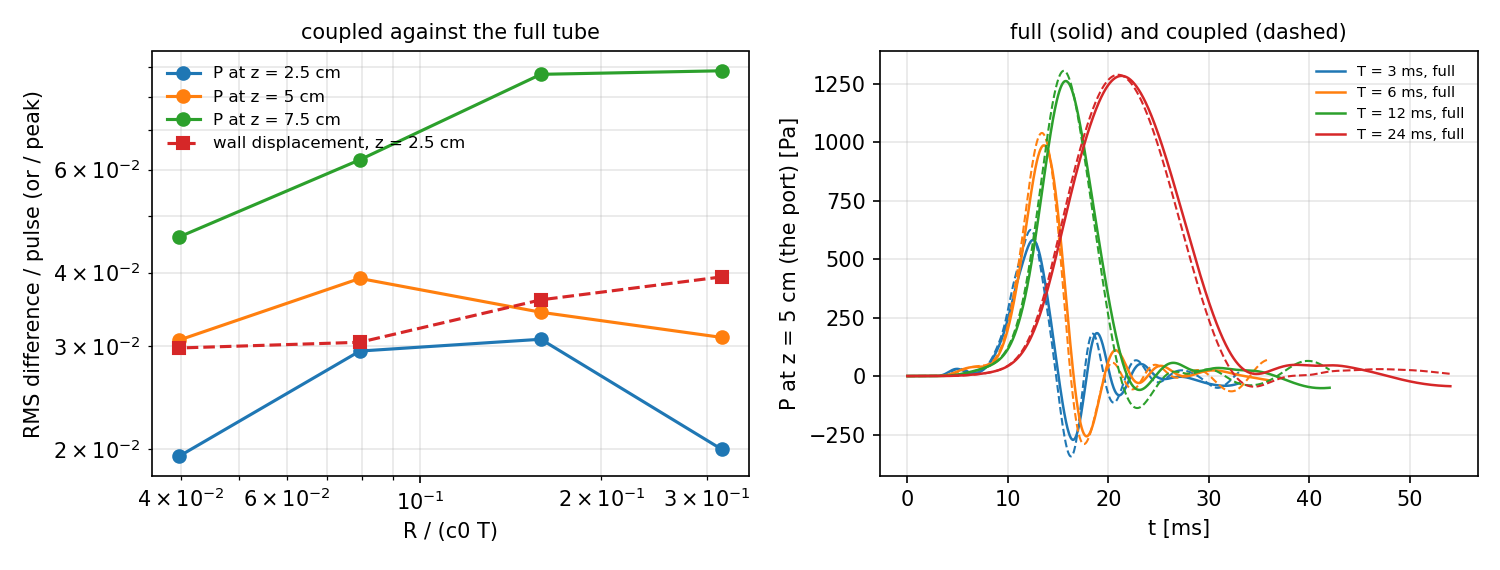
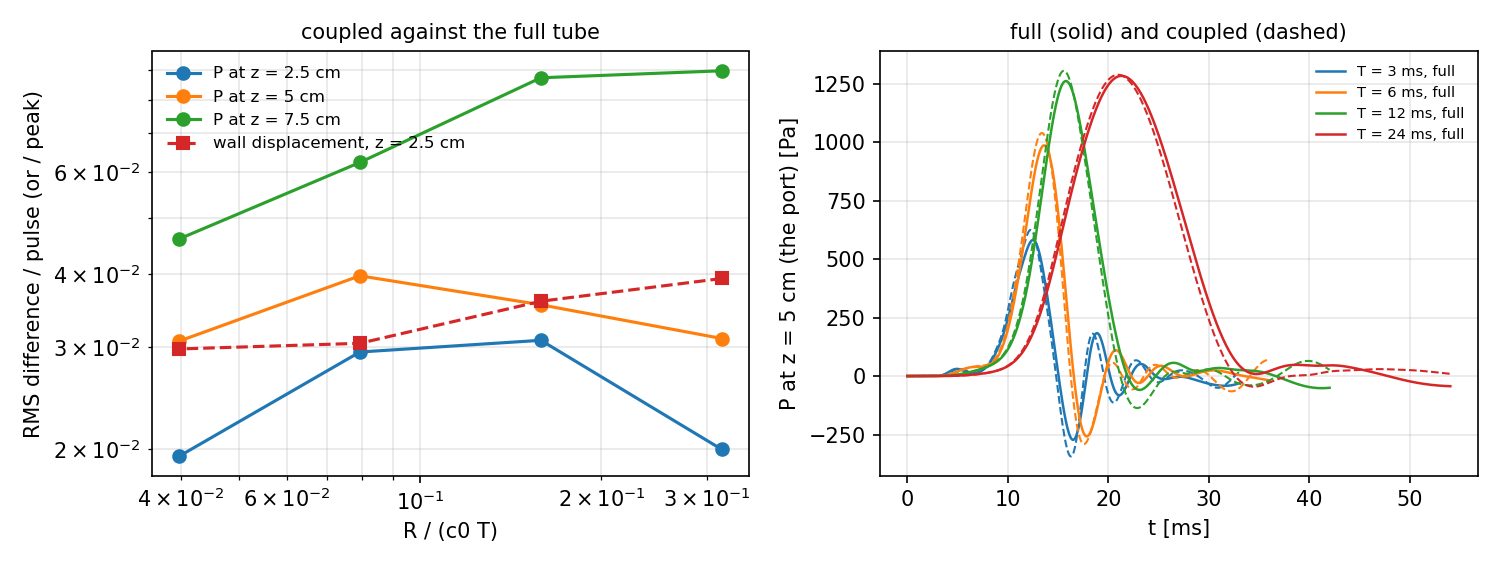
formaggia2007: sections measured with the sectionFields function object
Two errors in the section measurements of the FSI tube: the flow summed
phi, which the solver leaves relative to the mesh, on zones that move
axially with the wall (10-20 % off), and on processor faces the pressure
read the neighbour cell (half a cell away, 3.5 % of the pulse on B4).
makeCases.py writes a coded function object, sectionFields, that
registers phiAbsolute = phi + meshPhi and pSection, the mean of the two
cells on every face; the zones sum phiAbsolute and average pSection.

Full tubes rerun on xenosim with it: pulse.md and pulse_planeStress.md
regenerated (no conclusion changes; largest RMS change 3.5e-2 to 3.8e-2),
and refine.md, the refinement study complete with the clamped end on the
finer mesh. The README's 3.75 cm row (the section on a processor boundary)
updated from full3D_lib2; analyse.py writes its report from the study's
own runs only.

diff --git a/tutorials/circulationModels/coupling3D1D/formaggia2007/makeCases.py b/tutorials/circulationModels/coupling3D1D/formaggia2007/makeCases.py
@@ -25,7 +25,10 @@ c0^2/(2 h) (the law's 4/3 factor is the nu = 1/2 of Formaggia's 1D model).
 
 The 3D cases are quarter tubes (two symmetry planes): the coupled port has
 flowScale 4. Sections of the fluid at z = 1.25, 2.5, ... cm are faceZones
-(topoSet) on which surfaceFieldValue writes the mean pressure and the flow.
+(topoSet) on which surfaceFieldValue writes the mean pressure and the flow,
+the flow through the moving faces (phi + meshPhi) and the pressure as the
+mean of the two cells on every face, processor faces included (see
+SECTION_FIELDS).
 """
 import argparse
 import math
@@ -87,12 +90,107 @@ def zone_name(zcm):
     return "z" + f"{zcm:g}".replace(".", "p")
 
 
+# The fields the sections are measured on, registered by this object ahead
+# of the others. The flow: the solver leaves phi relative to the moving
+# mesh, and the faceZones move axially with the wall (its axial waves run
+# ahead of the pulse), so their sum(phi) is not the flow past the section;
+# phiAbsolute = phi + meshPhi is (meshPhi itself is not registered). The
+# pressure: surfaceFieldValue takes the mean of the two cells on an interior
+# face, but on a processor face the stored value, which is the neighbour
+# cell's, so a section on a processor boundary would be read half a cell
+# away; pSection is the mean of the two cells on every face.
+SECTION_FIELDS = """    sectionFields
+    {
+        type            coded;
+        libs            (utilityFunctionObjects);
+        name            sectionFields;
+        region          fluid;
+        codeExecute
+        #{
+            const fvMesh& m = mesh();
+            const surfaceScalarField& phi =
+                m.lookupObject<surfaceScalarField>("phi");
+            surfaceScalarField* ptr =
+                m.getObjectPtr<surfaceScalarField>("phiAbsolute");
+            if (!ptr)
+            {
+                ptr = new surfaceScalarField
+                (
+                    IOobject
+                    (
+                        "phiAbsolute",
+                        m.time().timeName(),
+                        m,
+                        IOobject::NO_READ,
+                        IOobject::NO_WRITE,
+                        IOobject::REGISTER
+                    ),
+                    phi
+                );
+                ptr->store();
+            }
+            *ptr = phi;
+            if (m.moving())
+            {
+                *ptr += m.phi();
+            }
+
+            const volScalarField& p = m.lookupObject<volScalarField>("p");
+            surfaceScalarField* ps =
+                m.getObjectPtr<surfaceScalarField>("pSection");
+            if (!ps)
+            {
+                ps = new surfaceScalarField
+                (
+                    IOobject
+                    (
+                        "pSection",
+                        m.time().timeName(),
+                        m,
+                        IOobject::NO_READ,
+                        IOobject::NO_WRITE,
+                        IOobject::REGISTER
+                    ),
+                    m,
+                    dimensionedScalar(p.dimensions(), Zero)
+                );
+                ps->store();
+            }
+            const labelUList& own = m.owner();
+            const labelUList& nei = m.neighbour();
+            scalarField& psi = ps->primitiveFieldRef();
+            forAll(nei, facei)
+            {
+                psi[facei] = 0.5*(p[own[facei]] + p[nei[facei]]);
+            }
+            auto& psb = ps->boundaryFieldRef();
+            forAll(psb, patchi)
+            {
+                const fvPatchScalarField& pp = p.boundaryField()[patchi];
+                if (pp.coupled())
+                {
+                    const scalarField mean
+                    (
+                        0.5*(pp.patchInternalField() + pp.patchNeighbourField())
+                    );
+                    psb[patchi] = mean;
+                }
+                else
+                {
+                    psb[patchi] = pp;
+                }
+            }
+        #};
+    }
+"""
+
+
 def control_dict(coupled, planes, dt, end=END_TIME):
     libs ='libs            ("libcirculation1DCoupling.so");\n\n' if coupled else ""
-    fos = ""
+    fos = SECTION_FIELDS
     for zcm in planes:
         n = zone_name(zcm)
-        for suffix, op, field in (("P", "areaAverage", "p"), ("Q", "sum", "phi")):
+        for suffix, op, field in (("P", "areaAverage", "pSection"), ("Q", "sum", "phiAbsolute")):
             fos += f"""    {n}_{suffix}
     {{
         type            surfaceFieldValue;

diff --git a/tutorials/circulationModels/coupling3D1D/formaggia2007/analyse.py b/tutorials/circulationModels/coupling3D1D/formaggia2007/analyse.py
@@ -6,7 +6,11 @@
 
 At each section z the mean pressure and the flow are taken from the faceZone
 function objects of the 3D runs (quarter tube: the flow is multiplied by 4,
-the kinematic pressure by rho), from the coupler's log of the coupled runs
+the kinematic pressure by rho; the flow is phi + meshPhi, the flux through
+the moving faces, since the solver leaves phi relative to the mesh and the
+sections move axially with the wall; the pressure is pSection, the mean of
+the two cells of every face, processor faces included, where p itself holds
+the neighbour cell's value), from the coupler's log of the coupled runs
 at the interface z = 5 cm (the port) and beyond it (the vessel probes), and
 from the probes of the 1D vessel alone. Every runs/coupled* directory is a
 coupled run (makeCases.py --c0 names them by their wave speed). The error of
@@ -161,12 +165,19 @@ def ref_for(c):
     return "full3D"
 
 
+def own_runs(pattern):
+    """The runs of this comparison: the pulse sweep's (_T) and the refinement
+    study's (_x) have their own reports, pulse.md and refine.md"""
+    return sorted(p.name for p in RUNS.glob(pattern)
+                  if p.is_dir() and "_T" not in p.name and "_x" not in p.name)
+
+
 def main():
-    coupled = sorted(p.name for p in RUNS.glob("coupled*") if p.is_dir())
+    coupled = own_runs("coupled*")
     lines = ["# Formaggia et al. (2007), section 5: the pulse tube continued "
              "by a 1D vessel", ""]
     data = {}
-    for ref in sorted(p.name for p in RUNS.glob("full3D*") if p.is_dir()):
+    for ref in own_runs("full3D*"):
         if (RUNS/ref/"postProcessing"/"fluid").is_dir():
             if not finished(ref, "log.solids4Foam"):
                 lines += [f"**{ref} has not finished: partial data.**", ""]

diff --git a/tutorials/circulationModels/coupling3D1D/formaggia2007/pulse.md b/tutorials/circulationModels/coupling3D1D/formaggia2007/pulse.md
@@ -4,16 +4,16 @@ sin^2 pulses of 1333 Pa and duration T on the full FSI tube (length L) and on th
 
 | T [ms] | L [cm] | c0 T [mm] | R/(c0 T) | z = 1.25 | z = 2.5 | z = 3.75 | z = 5 | z = 6.25 | z = 7.5 | z = 10 | z = 12.5 | max, 3D part | D peak full / coupled [um] | RMS dD / peak |
 |---|---|---|---|---|---|---|---|---|---|---|---|---|---|---|
-| 3 | 15 | 15.8 | 0.317 | 2.45e-02 | 2.00e-02 | 2.52e-02 | 3.10e-02 | 7.11e-02 | 8.85e-02 | 1.10e-01 | 1.14e-01 | 3.10e-02 | 83.2 / 83.0 | 3.93e-02 |
-| 6 | 20 | 31.5 | 0.159 | 3.96e-02 | 3.08e-02 | 3.48e-02 | 3.42e-02 | 6.31e-02 | 8.73e-02 | 1.22e-01 | 1.40e-01 | 3.96e-02 | 123.8 / 123.6 | 3.59e-02 |
-| 12 | 20 | 63.0 | 0.079 | 3.56e-02 | 2.94e-02 | 3.97e-02 | 3.91e-02 | 4.93e-02 | 6.24e-02 | 8.34e-02 | 1.04e-01 | 3.97e-02 | 128.4 / 127.6 | 3.04e-02 |
-| 24 | 25 | 126.1 | 0.040 | 1.12e-02 | 1.94e-02 | 2.68e-02 | 3.07e-02 | 3.51e-02 | 4.60e-02 | 6.19e-02 | 6.91e-02 | 3.07e-02 | 126.4 / 122.4 | 2.97e-02 |
+| 3 | 15 | 15.8 | 0.317 | 2.45e-02 | 2.00e-02 | 2.29e-02 | 3.10e-02 | 7.11e-02 | 8.98e-02 | 1.10e-01 | 1.14e-01 | 3.10e-02 | 83.2 / 83.0 | 3.93e-02 |
+| 6 | 20 | 31.5 | 0.159 | 3.96e-02 | 3.08e-02 | 3.48e-02 | 3.54e-02 | 6.31e-02 | 8.73e-02 | 1.22e-01 | 1.40e-01 | 3.96e-02 | 123.8 / 123.6 | 3.59e-02 |
+| 12 | 20 | 63.0 | 0.079 | 3.56e-02 | 2.94e-02 | 3.97e-02 | 3.98e-02 | 4.93e-02 | 6.24e-02 | 8.34e-02 | 1.04e-01 | 3.98e-02 | 128.4 / 127.6 | 3.04e-02 |
+| 24 | 25 | 126.1 | 0.040 | 1.12e-02 | 1.94e-02 | 2.68e-02 | 3.07e-02 | 3.78e-02 | 4.60e-02 | 6.19e-02 | 6.91e-02 | 3.07e-02 | 126.4 / 122.4 | 2.97e-02 |
 
 Peak pressure, full / coupled [Pa]:
 
 | T [ms] | z = 1.25 | z = 2.5 | z = 3.75 | z = 5 | z = 6.25 | z = 7.5 | z = 10 | z = 12.5 |
 |---|---|---|---|---|---|---|---|---|
-| 3 | 845 / 845 | 695 / 705 | 612 / 637 | 581 / 625 | 541 / 619 | 512 / 617 | 439 / 613 | 443 / 610 |
+| 3 | 845 / 845 | 695 / 705 | 611 / 637 | 581 / 625 | 541 / 619 | 511 / 617 | 439 / 613 | 443 / 610 |
 | 6 | 1194 / 1195 | 1115 / 1145 | 1040 / 1070 | 986 / 1039 | 945 / 1034 | 905 / 1032 | 851 / 1028 | 774 / 1024 |
 | 12 | 1305 / 1322 | 1284 / 1317 | 1269 / 1304 | 1261 / 1305 | 1250 / 1300 | 1238 / 1298 | 1231 / 1294 | 1143 / 1290 |
 | 24 | 1323 / 1336 | 1311 / 1325 | 1297 / 1330 | 1283 / 1288 | 1269 / 1286 | 1256 / 1284 | 1252 / 1281 | 1252 / 1279 |
@@ -22,7 +22,7 @@ The difference split. c_3D: the full tube's wave speed from the half-peak arriva
 
 | T [ms] | c_3D [m/s] | z = 1.25 | z = 2.5 | z = 3.75 | z = 5 | z = 6.25 | z = 7.5 | z = 10 | z = 12.5 |
 |---|---|---|---|---|---|---|---|---|---|
-| 3 | 3.77 | 1.000; -0.00; 2.4e-02 | 1.015; -0.00; 2.0e-02 | 1.040; -0.13; 2.2e-02 | 1.074; +0.27; 1.8e-02 | 1.144; +0.75; 3.6e-02 | 1.205; +1.02; 5.3e-02 | 1.397; +1.67; 6.1e-02 | 1.377; +1.65; 3.8e-02 |
-| 6 | 4.80 | 1.001; -0.03; 3.9e-02 | 1.027; -0.00; 3.1e-02 | 1.029; -0.10; 3.3e-02 | 1.054; +0.22; 2.4e-02 | 1.095; +0.50; 3.3e-02 | 1.141; +0.77; 4.1e-02 | 1.208; +1.20; 5.9e-02 | 1.323; +1.55; 5.8e-02 |
-| 12 | 4.97 | 1.013; -0.05; 3.5e-02 | 1.026; +0.02; 2.9e-02 | 1.027; -0.05; 3.9e-02 | 1.035; +0.22; 3.4e-02 | 1.041; +0.42; 3.1e-02 | 1.049; +0.65; 2.6e-02 | 1.051; +0.90; 2.9e-02 | 1.129; +1.15; 4.4e-02 |
-| 24 | 5.17 | 1.009; +0.02; 1.1e-02 | 1.010; +0.07; 1.9e-02 | 1.025; +0.22; 2.3e-02 | 1.004; +0.35; 2.2e-02 | 1.013; +0.45; 2.4e-02 | 1.022; +0.67; 2.5e-02 | 1.024; +1.00; 2.3e-02 | 1.021; +1.17; 1.6e-02 |
+| 3 | 3.77 | 1.000; -0.00; 2.4e-02 | 1.015; -0.00; 2.0e-02 | 1.041; -0.05; 2.2e-02 | 1.074; +0.27; 1.8e-02 | 1.144; +0.75; 3.6e-02 | 1.206; +1.05; 5.3e-02 | 1.397; +1.67; 6.1e-02 | 1.377; +1.65; 3.8e-02 |
+| 6 | 4.79 | 1.001; -0.03; 3.9e-02 | 1.027; -0.00; 3.1e-02 | 1.029; -0.10; 3.3e-02 | 1.054; +0.22; 2.4e-02 | 1.095; +0.50; 3.3e-02 | 1.141; +0.77; 4.1e-02 | 1.208; +1.20; 5.9e-02 | 1.323; +1.55; 5.8e-02 |
+| 12 | 4.96 | 1.013; -0.05; 3.5e-02 | 1.026; +0.02; 2.9e-02 | 1.027; -0.05; 3.9e-02 | 1.035; +0.22; 3.4e-02 | 1.041; +0.42; 3.1e-02 | 1.049; +0.65; 2.6e-02 | 1.051; +0.90; 2.9e-02 | 1.129; +1.15; 4.4e-02 |
+| 24 | 5.17 | 1.009; +0.02; 1.1e-02 | 1.010; +0.07; 1.9e-02 | 1.025; +0.22; 2.3e-02 | 1.004; +0.35; 2.2e-02 | 1.013; +0.50; 2.4e-02 | 1.022; +0.67; 2.5e-02 | 1.024; +1.00; 2.3e-02 | 1.021; +1.17; 1.6e-02 |

diff --git a/tutorials/circulationModels/coupling3D1D/formaggia2007/pulse_planeStress.md b/tutorials/circulationModels/coupling3D1D/formaggia2007/pulse_planeStress.md
@@ -4,16 +4,16 @@ sin^2 pulses of 1333 Pa and duration T on the full FSI tube (length L) and on th
 
 | T [ms] | L [cm] | c0 T [mm] | R/(c0 T) | z = 1.25 | z = 2.5 | z = 3.75 | z = 5 | z = 6.25 | z = 7.5 | z = 10 | z = 12.5 | max, 3D part | D peak full / coupled [um] | RMS dD / peak |
 |---|---|---|---|---|---|---|---|---|---|---|---|---|---|---|
-| 3 | 15 | 15.2 | 0.329 | 2.47e-02 | 2.02e-02 | 2.56e-02 | 3.02e-02 | 6.44e-02 | 7.88e-02 | 9.53e-02 | 8.50e-02 | 3.02e-02 | 83.2 / 83.0 | 3.94e-02 |
-| 6 | 20 | 30.4 | 0.165 | 3.79e-02 | 2.97e-02 | 3.49e-02 | 3.25e-02 | 5.39e-02 | 7.16e-02 | 9.58e-02 | 1.03e-01 | 3.79e-02 | 123.8 / 123.6 | 3.54e-02 |
-| 12 | 20 | 60.8 | 0.082 | 3.34e-02 | 2.87e-02 | 4.02e-02 | 3.78e-02 | 4.25e-02 | 4.83e-02 | 5.70e-02 | 6.73e-02 | 4.02e-02 | 128.4 / 127.6 | 3.17e-02 |
-| 24 | 25 | 121.6 | 0.041 | 1.17e-02 | 2.07e-02 | 2.77e-02 | 3.02e-02 | 3.08e-02 | 3.72e-02 | 4.44e-02 | 4.17e-02 | 3.02e-02 | 126.4 / 122.2 | 3.41e-02 |
+| 3 | 15 | 15.2 | 0.329 | 2.47e-02 | 2.02e-02 | 2.34e-02 | 3.02e-02 | 6.44e-02 | 8.00e-02 | 9.53e-02 | 8.50e-02 | 3.02e-02 | 83.2 / 83.0 | 3.94e-02 |
+| 6 | 20 | 30.4 | 0.165 | 3.79e-02 | 2.97e-02 | 3.49e-02 | 3.38e-02 | 5.39e-02 | 7.16e-02 | 9.58e-02 | 1.03e-01 | 3.79e-02 | 123.8 / 123.6 | 3.54e-02 |
+| 12 | 20 | 60.8 | 0.082 | 3.34e-02 | 2.87e-02 | 4.02e-02 | 3.84e-02 | 4.25e-02 | 4.83e-02 | 5.70e-02 | 6.73e-02 | 4.02e-02 | 128.4 / 127.6 | 3.17e-02 |
+| 24 | 25 | 121.6 | 0.041 | 1.17e-02 | 2.07e-02 | 2.77e-02 | 3.02e-02 | 3.32e-02 | 3.72e-02 | 4.44e-02 | 4.17e-02 | 3.02e-02 | 126.4 / 122.2 | 3.41e-02 |
 
 Peak pressure, full / coupled [Pa]:
 
 | T [ms] | z = 1.25 | z = 2.5 | z = 3.75 | z = 5 | z = 6.25 | z = 7.5 | z = 10 | z = 12.5 |
 |---|---|---|---|---|---|---|---|---|
-| 3 | 845 / 845 | 695 / 705 | 612 / 636 | 581 / 613 | 541 / 607 | 512 / 605 | 439 / 601 | 443 / 597 |
+| 3 | 845 / 845 | 695 / 705 | 611 / 636 | 581 / 613 | 541 / 607 | 511 / 605 | 439 / 601 | 443 / 597 |
 | 6 | 1194 / 1195 | 1115 / 1144 | 1040 / 1068 | 986 / 1019 | 945 / 1014 | 905 / 1011 | 851 / 1007 | 774 / 1003 |
 | 12 | 1305 / 1322 | 1284 / 1317 | 1269 / 1299 | 1261 / 1279 | 1250 / 1275 | 1238 / 1272 | 1231 / 1268 | 1143 / 1264 |
 | 24 | 1323 / 1336 | 1311 / 1322 | 1297 / 1314 | 1283 / 1262 | 1269 / 1260 | 1256 / 1259 | 1252 / 1256 | 1252 / 1253 |
@@ -22,7 +22,7 @@ The difference split. c_3D: the full tube's wave speed from the half-peak arriva
 
 | T [ms] | c_3D [m/s] | z = 1.25 | z = 2.5 | z = 3.75 | z = 5 | z = 6.25 | z = 7.5 | z = 10 | z = 12.5 |
 |---|---|---|---|---|---|---|---|---|---|
-| 3 | 3.77 | 1.000; -0.00; 2.5e-02 | 1.015; -0.00; 2.0e-02 | 1.039; -0.13; 2.3e-02 | 1.054; +0.27; 1.7e-02 | 1.122; +0.65; 3.6e-02 | 1.182; +0.85; 5.2e-02 | 1.369; +1.32; 5.9e-02 | 1.349; +1.12; 3.6e-02 |
-| 6 | 4.80 | 1.001; -0.03; 3.8e-02 | 1.027; -0.00; 3.0e-02 | 1.027; -0.10; 3.3e-02 | 1.033; +0.22; 2.3e-02 | 1.073; +0.42; 3.1e-02 | 1.118; +0.60; 3.9e-02 | 1.184; +0.87; 5.7e-02 | 1.296; +1.02; 5.4e-02 |
-| 12 | 4.97 | 1.013; -0.05; 3.3e-02 | 1.026; +0.02; 2.9e-02 | 1.024; -0.03; 4.0e-02 | 1.014; +0.22; 3.2e-02 | 1.020; +0.35; 2.9e-02 | 1.028; +0.47; 2.4e-02 | 1.030; +0.57; 2.8e-02 | 1.106; +0.65; 4.0e-02 |
-| 24 | 5.17 | 1.009; +0.05; 1.1e-02 | 1.008; +0.15; 1.9e-02 | 1.013; +0.27; 2.2e-02 | 0.984; +0.35; 2.2e-02 | 0.993; +0.35; 2.3e-02 | 1.002; +0.50; 2.4e-02 | 1.003; +0.67; 2.3e-02 | 1.000; +0.67; 1.6e-02 |
+| 3 | 3.77 | 1.000; -0.00; 2.5e-02 | 1.015; -0.00; 2.0e-02 | 1.040; -0.05; 2.3e-02 | 1.054; +0.27; 1.7e-02 | 1.122; +0.65; 3.6e-02 | 1.182; +0.87; 5.2e-02 | 1.369; +1.32; 5.9e-02 | 1.349; +1.12; 3.6e-02 |
+| 6 | 4.79 | 1.001; -0.03; 3.8e-02 | 1.027; -0.00; 3.0e-02 | 1.027; -0.10; 3.3e-02 | 1.034; +0.22; 2.3e-02 | 1.073; +0.42; 3.1e-02 | 1.118; +0.60; 3.9e-02 | 1.184; +0.87; 5.7e-02 | 1.296; +1.02; 5.4e-02 |
+| 12 | 4.96 | 1.013; -0.05; 3.3e-02 | 1.026; +0.02; 2.9e-02 | 1.024; -0.03; 4.0e-02 | 1.014; +0.22; 3.2e-02 | 1.020; +0.35; 2.9e-02 | 1.028; +0.47; 2.4e-02 | 1.030; +0.57; 2.8e-02 | 1.106; +0.65; 4.0e-02 |
+| 24 | 5.17 | 1.009; +0.05; 1.1e-02 | 1.008; +0.15; 1.9e-02 | 1.013; +0.27; 2.2e-02 | 0.984; +0.35; 2.2e-02 | 0.993; +0.40; 2.3e-02 | 1.002; +0.50; 2.4e-02 | 1.003; +0.67; 2.3e-02 | 1.000; +0.67; 1.6e-02 |

diff --git a/tutorials/circulationModels/coupling3D1D/formaggia2007/refine.md b/tutorials/circulationModels/coupling3D1D/formaggia2007/refine.md
@@ -1,0 +1,24 @@
+# Mesh refinement of the coupled tube, per end condition of the wall
+
+Level 2: twice the cells in every direction of both regions, same step (25 us). RMS(P coupled - P full) over the window / pulse at the sections (z < 5 cm in the 3D part, 5 cm the port, beyond it the 1D vessel), each level against the full tube of the same level; D the radial wall displacement at z = 2.5 cm.
+
+| end | level | run / reference | z = 1.25 | z = 2.5 | z = 3.75 | z = 5 | z = 6.25 | z = 7.5 | D peak full / coupled [um] | RMS dD / peak |
+|---|---|---|---|---|---|---|---|---|---|---|
+| clamped | 1 | coupled_c5p25 / full3D | 2.88e-02 | 2.80e-02 | 4.55e-02 | 4.75e-02 | 9.41e-02 | 1.03e-01 | 146.9 / 146.8 | 2.50e-02 |
+| clamped | 2 | coupled_c5p25_x2 / full3D_x2 | 2.79e-02 | 2.74e-02 | 4.47e-02 | 4.57e-02 | 9.20e-02 | 1.01e-01 | 145.2 / 145.0 | 2.50e-02 |
+| free | 1 | coupled_c5p25_free / full3D | 3.82e-02 | 4.06e-02 | 3.24e-02 | 2.20e-02 | 5.77e-02 | 6.55e-02 | 146.9 / 146.7 | 1.83e-02 |
+| free | 2 | coupled_c5p25_free_x2 / full3D_x2 | 3.48e-02 | 3.70e-02 | 3.05e-02 | 2.08e-02 | 5.72e-02 | 6.66e-02 | 145.2 / 145.1 | 1.67e-02 |
+| spring | 1 | coupled_c5p25_spring / full3D | 3.78e-02 | 4.85e-02 | 3.28e-02 | 2.52e-02 | 6.85e-02 | 7.46e-02 | 146.9 / 146.7 | 2.48e-02 |
+| spring | 2 | coupled_c5p25_spring_x2 / full3D_x2 | 3.45e-02 | 4.44e-02 | 3.11e-02 | 2.39e-02 | 6.70e-02 | 7.38e-02 | 145.2 / 145.1 | 2.27e-02 |
+
+Mesh sensitivity, level 2 against level 1 of the same run (RMS / pulse), and the differences between end conditions at level 2 (RMS / pulse):
+
+| what | z = 1.25 | z = 2.5 | z = 3.75 | z = 5 | z = 6.25 | z = 7.5 |
+|---|---|---|---|---|---|---|
+| full tube, level 2 - level 1 | 3.13e-03 | 4.99e-03 | 6.31e-03 | 6.93e-03 | 8.14e-03 | 6.17e-03 |
+| clamped, level 2 - level 1 | 3.55e-03 | 5.39e-03 | 6.93e-03 | 1.08e-02 | 1.01e-02 | 9.46e-03 |
+| free, level 2 - level 1 | 4.24e-03 | 5.71e-03 | 6.50e-03 | 7.82e-03 | 7.39e-03 | 6.10e-03 |
+| spring, level 2 - level 1 | 4.08e-03 | 5.89e-03 | 5.85e-03 | 1.05e-02 | 9.74e-03 | 8.77e-03 |
+| clamped - free, level 2 | 6.16e-02 | 4.11e-02 | 5.87e-02 | 5.06e-02 | 4.26e-02 | 3.97e-02 |
+| clamped - spring, level 2 | 6.12e-02 | 4.39e-02 | 5.20e-02 | 4.27e-02 | 3.32e-02 | 3.12e-02 |
+| free - spring, level 2 | 2.41e-03 | 9.18e-03 | 1.02e-02 | 1.32e-02 | 1.26e-02 | 9.81e-03 |

diff --git a/tutorials/circulationModels/coupling3D1D/formaggia2007/README.md b/tutorials/circulationModels/coupling3D1D/formaggia2007/README.md
@@ -48,7 +48,14 @@ with the 1D law's own 4/3 factor, i.e. nu = 1/2). The sqrtElastic law has
 runs), 5 (the interface: a zone in `full3D`, the port in `coupled`), 6.25,
 7.5, 10 and 12.5 cm (3D in `full3D`, 1D probes in `coupled`) record the mean
 pressure and the flow; `solidPointDisplacement` the radial wall displacement
-at z = 2.5 cm.
+at z = 2.5 cm. A coded function object, `sectionFields`, gives the zones
+what they measure: the solver leaves `phi` relative to the mesh and the
+sections move axially with the wall, so the flow is the sum of
+`phiAbsolute = phi + meshPhi`; on a processor boundary `p` holds the
+neighbour cell's value, so the pressure is the area average of `pSection`,
+the mean of the two cells of every face. Without them the flows at the
+sections were 10-20 % off, and a section on a processor boundary read the
+pressure half a cell away (3.5 % of the pulse).
 
 ```bash
 ./Allrun            # full3D (~10 min), coupled (~4 min) and only1D together; results.md, plots/
@@ -56,7 +63,8 @@ at z = 2.5 cm.
 
 The dictionary of the 1D network is `constant/fluid/circulation1DProperties`
 (the coupler registers on the fluid region's mesh). Needs solids4foam with
-PETSc; the function objects use `libfieldFunctionObjects`.
+PETSc; the function objects use `libfieldFunctionObjects` and
+`libutilityFunctionObjects`.
 
 ---
 
@@ -131,7 +139,7 @@ of solids4foam (the installed library has no `solidSpringDashpot`; see
 | z [cm] | full tube peak [Pa] | clamped | free | spring | RMS(P - full) / pulse: clamped / free / spring |
 |---|---|---|---|---|---|
 | 2.5 | 1271 | 1303 | 1233 | 1233 | 3.0e-2 / 4.4e-2 / 5.1e-2 |
-| 3.75 | 1132 | 1169 | 1108 | 1111 | 4.6e-2 / 2.5e-2 / 2.5e-2 |
+| 3.75 | 1133 | 1169 | 1108 | 1111 | 4.7e-2 / 2.4e-2 / 2.5e-2 |
 | 5 (interface) | 1077 | 1104 | 1093 | 1098 | 4.4e-2 / 1.8e-2 / 2.2e-2 |
 | 6.25 | 1045 | 1096 | 1085 | 1089 | 6.9e-2 / 3.6e-2 / 4.6e-2 |
 
